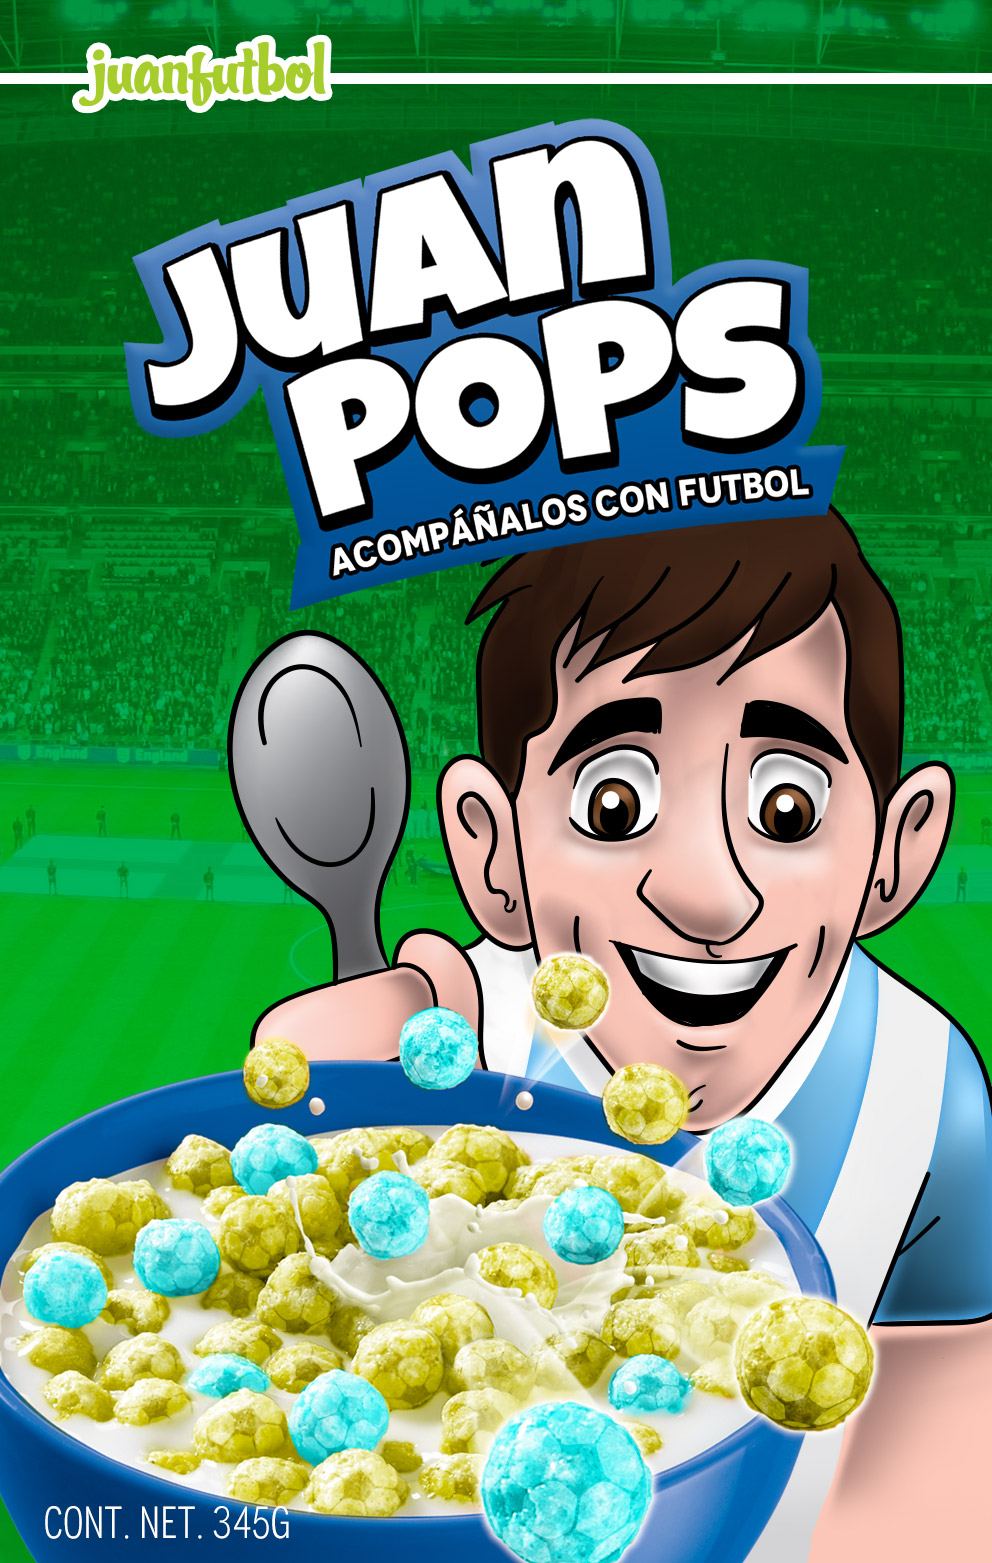
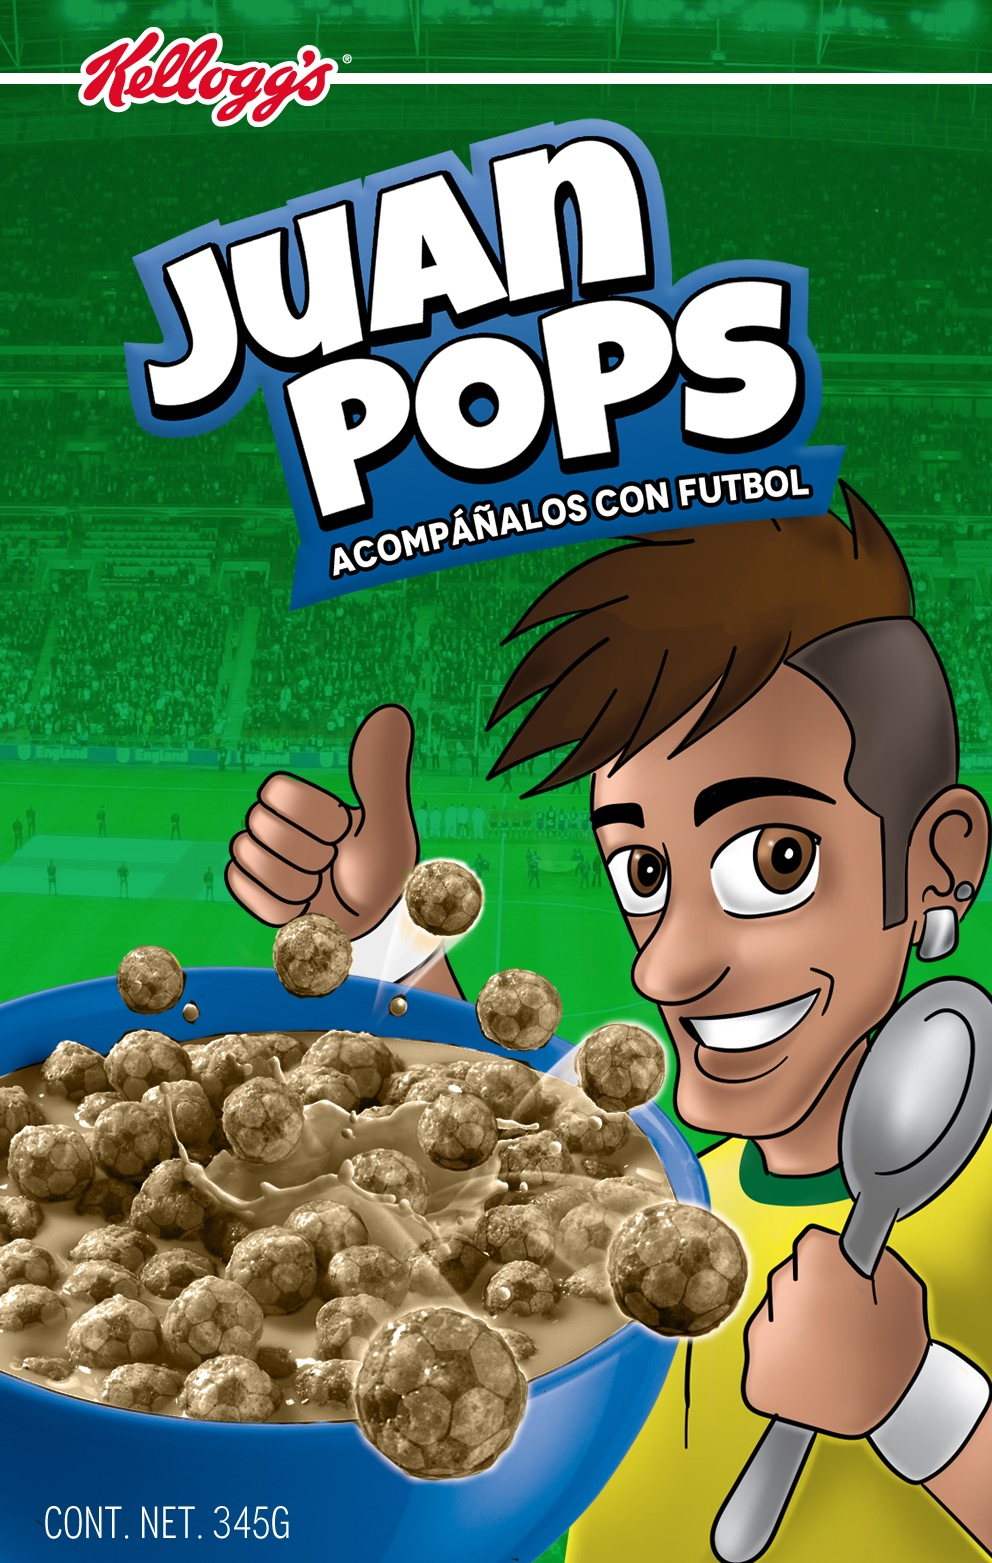
Nueva caja
Agregada la caja de Neymar

diff --git a/css/jquery.kelloggs.css b/css/jquery.kelloggs.css
@@ -1,3 +1,6 @@
+div.load1{ background-image: url("../images/box2/front.jpg"); display: none; }
+div.load1{ background-image: url("../images/box2/back.jpg"); display: none; }
+div.load1{ background-image: url("../images/box2/left.jpg"); display: none; }
 div.load1{ background-image: url("../images/box1/front.jpg"); display: none; }
 div.load1{ background-image: url("../images/box1/back.jpg"); display: none; }
 div.load1{ background-image: url("../images/box1/left.jpg"); display: none; }
@@ -10,7 +13,7 @@ div.indepth_billboards{
 	height: 790px;
 }
 div#indepth_cover {
-    background-image: url("../images/Portada.jpg"), url("../images/PortadaPx.jpg");
+    background-image: url("../images/box2/Portada.jpg"), url("../images/PortadaPx.jpg");
     background-position: center top, top left;
     background-color: #08842C;
     background-repeat: no-repeat, repeat-x;
@@ -22,7 +25,7 @@ div#indepth_billboard{
 	background-repeat: no-repeat;
 }
 div#indepth_box{
-	height: 800px;
+	height: 940px;
 	width: 100%;
 	background-image: url("../images/Fondo_Caja1.jpg");
 	background-repeat: no-repeat;
@@ -48,10 +51,10 @@ div#box_select{
 	position: absolute;
 	left: 0px;
 	right: 0px;
-	bottom: 0px;
+	bottom: 20px;
 	margin: auto;
 	height: 180px;
-	width: 480px;
+	width: 320px;
 }
 div#mini_1{
 	background-image: url("../images/box1/box.png");
@@ -131,11 +134,11 @@ div.videos{
 div#video_1{
 	background: url("../images/videos/1.jpg") no-repeat center;
 	background-size: 100%;
-}/*
+}
 div#video_2{
 	background: url("../images/videos/2.jpg") no-repeat center;
 	background-size: 100%;
-}
+}/*
 div#video_3{
 	background: url("../images/videos/3.jpg") no-repeat center;
 	background-size: 100%;
@@ -332,6 +335,7 @@ background-color: #85D86D;
 	}
 	div#indepth_box {
 		background-size: 1300px 100%;
+		height: 900px;
 	}
 	div#instructions_box {
 	    font-size: 40px;
@@ -385,7 +389,7 @@ background-color: #85D86D;
 	}
 	div#indepth_box {
 	    background-size: 830px 100%;
-	    height: 560px;
+	   	height: 750px;
 	}
 	div#instructions_box {
 	    font-size: 35px;
@@ -430,12 +434,12 @@ background-color: #85D86D;
 }
 @media (max-width: 420px){
 	div#indepth_box {
-	    height: 450px;
+	    height: 580px;
 	    background-size: 655px 100%;
 	}
 	div#box_select{
 		height: 130px;
-		width: 300px;
+		width: 200px;
 	}
 	.box_mini{
 		background-size: 80px auto;

diff --git a/css/box.css b/css/box.css
@@ -65,11 +65,11 @@ div#box {
 }
 
 #front{
-	background-image: url("../images/box1/front.jpg");
+	background-image: url("../images/box2/front.jpg");
 	background-repeat: no-repeat;
 }
 #back{
-	background-image: url("../images/box1/back.jpg");
+	background-image: url("../images/box2/back.jpg");
 	background-repeat: no-repeat;
 }
 #front, #back{
@@ -89,37 +89,12 @@ div#box {
 	-ms-transform: rotateY(180deg) translate3d(0px, 0px, 69px);
 	transform: rotateY(180deg) translate3d(0px, 0px, 69px);
 }
-#top{
-	background-image: url("../images/box1/top.jpg");
-	background-repeat: no-repeat;
-}
-#bottom{
-	background-image: url("../images/box1/bottom.jpg");
-	background-repeat: no-repeat;
-}
-#top, #bottom{
-	width:325px;
-	height: 139px;
-	background-size: 100% 100%;
-	-webkit-transform: rotateX(90deg) translate3d(0px, 0px, 69px);
-	-moz-transform: rotateX(90deg) translate3d(0px, 0px, 69px);
-	-o-transform: rotateX(90deg) translate3d(0px, 0px, 69px);
-	-ms-transform: rotateX(90deg) translate3d(0px, 0px, 69px);
-	transform: rotateX(90deg) translate3d(0px, 0px, 69px);
-}
-#bottom{
-	-webkit-transform: rotateX(-90deg) translate3d(0px, 0px, 441px);
-	-moz-transform: rotateX(-90deg) translate3d(0px, 0px, 441px);
-	-o-transform: rotateX(-90deg) translate3d(0px, 0px, 441px);
-	-ms-transform: rotateX(-90deg) translate3d(0px, 0px, 441px);
-	transform: rotateX(-90deg) translate3d(0px, 0px, 441px);
-}
 #left{
-	background-image: url("../images/box1/left.jpg");
+	background-image: url("../images/box2/left.jpg");
 	background-repeat: no-repeat;
 }
 #right{
-	background-image: url("../images/box1/left.jpg");
+	background-image: url("../images/box2/left.jpg");
 	background-repeat: no-repeat;
 }
 #left, #right{

diff --git a/index.html b/index.html
@@ -67,26 +67,26 @@
 				<section id="box1">
 					<div id="box">
 						<div id="front"></div>
-						<div id="top"></div>
-						<div id="bottom"></div>
 						<div id="back"></div>
 						<div id="left"></div>
 						<div id="right"></div>
 					</div>
 				</section>
-				<!--<div id="box_select">
+				<div id="box_select">
 					<div class="box_mini" id="mini_1"></div>
 					<div class="box_mini" id="mini_2"></div>
-					<div class="box_mini" id="mini_3"></div>
-				</div>-->
+				</div>
 			</div>
 			<div id="indepth_billboard" class="indepth_billboards"></div>
 			<div id="indepth_videos">
 				<div id="videos_container">
-					<!--<div class="videos1 row">
+					<div class="videos1 row">
 						<div id="video_1" class="videos"></div>
-					</div>-->
-					<iframe width="100%" height="100%" src="https://www.youtube.com/embed/Xp3XsNaUni4" frameborder="0" allowfullscreen></iframe>
+					</div>
+					<div class="videos1 row">
+						<div id="video_2" class="videos"></div>
+					</div>
+					<!--<iframe width="100%" height="100%" src="https://www.youtube.com/embed/Xp3XsNaUni4" frameborder="0" allowfullscreen></iframe>-->
 				</div>
 
 			</div>

diff --git a/js/jquery.kelloggs.js b/js/jquery.kelloggs.js
@@ -79,6 +79,7 @@ $(document).ready(function(){
 			$("#back").css('background-image','url("images/box'+(key+1)+'/back.jpg")');
 			$("#left").css('background-image','url("images/box'+(key+1)+'/left.jpg")');
 			$("#right").css('background-image','url("images/box'+(key+1)+'/left.jpg")');
+			$("#indepth_cover").css('background-image','url("images/box'+(key+1)+'/Portada.jpg"), url("images/PortadaPx.jpg")');
 		});
 	});
 
